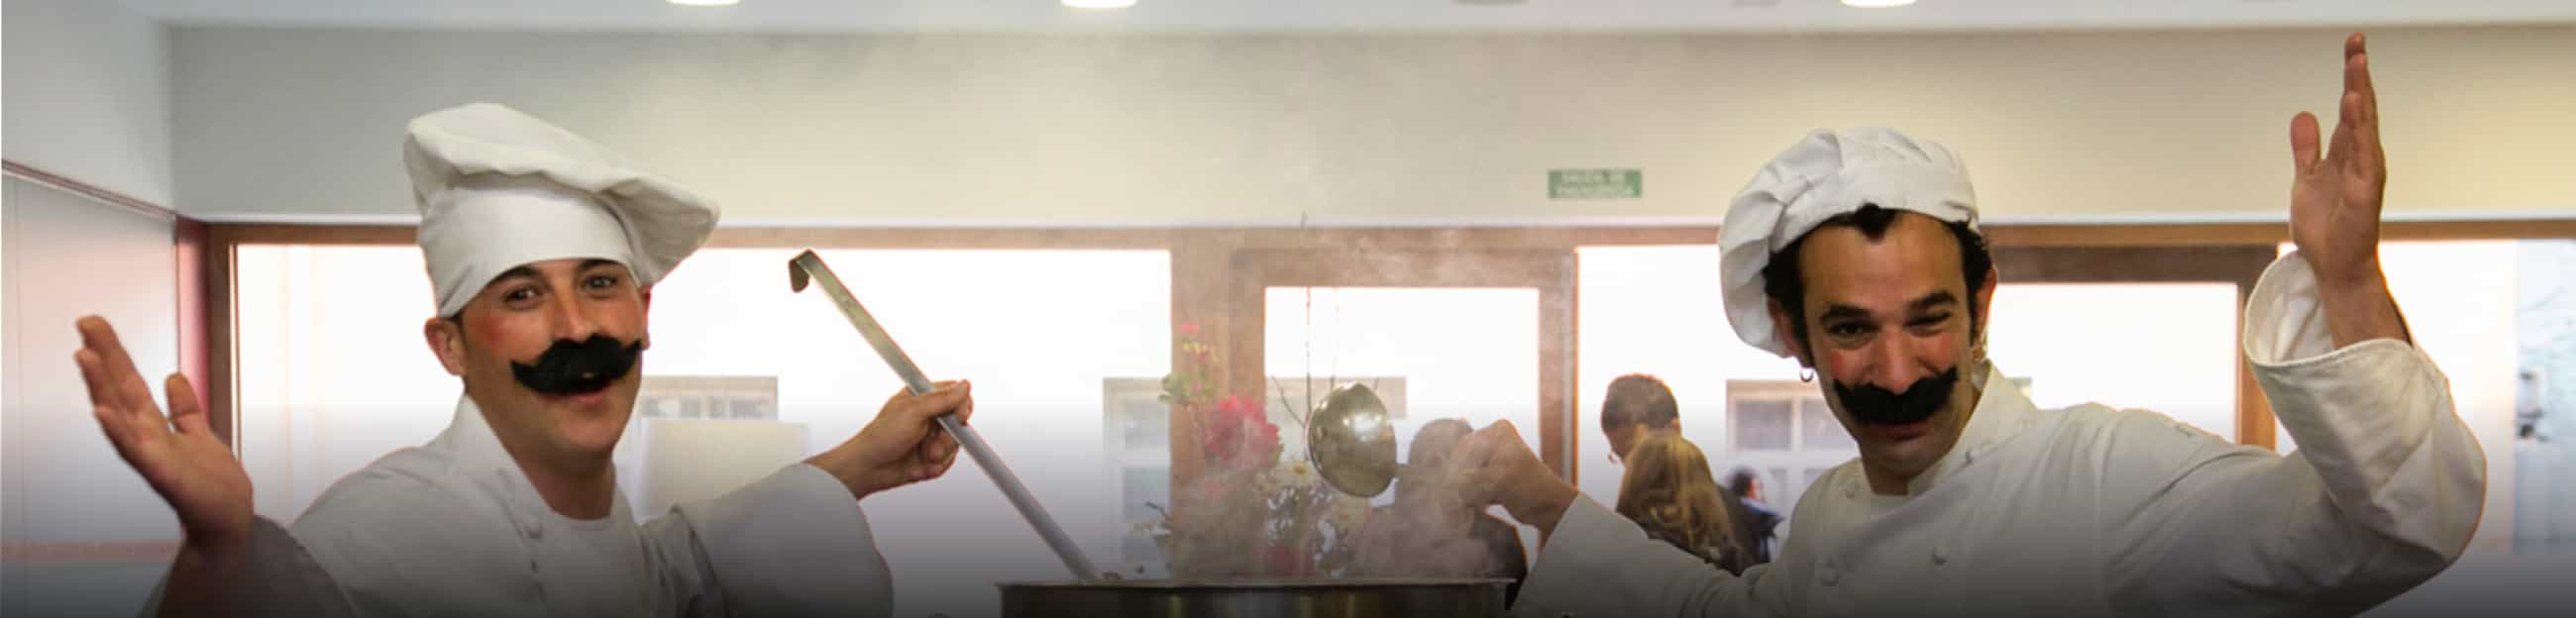
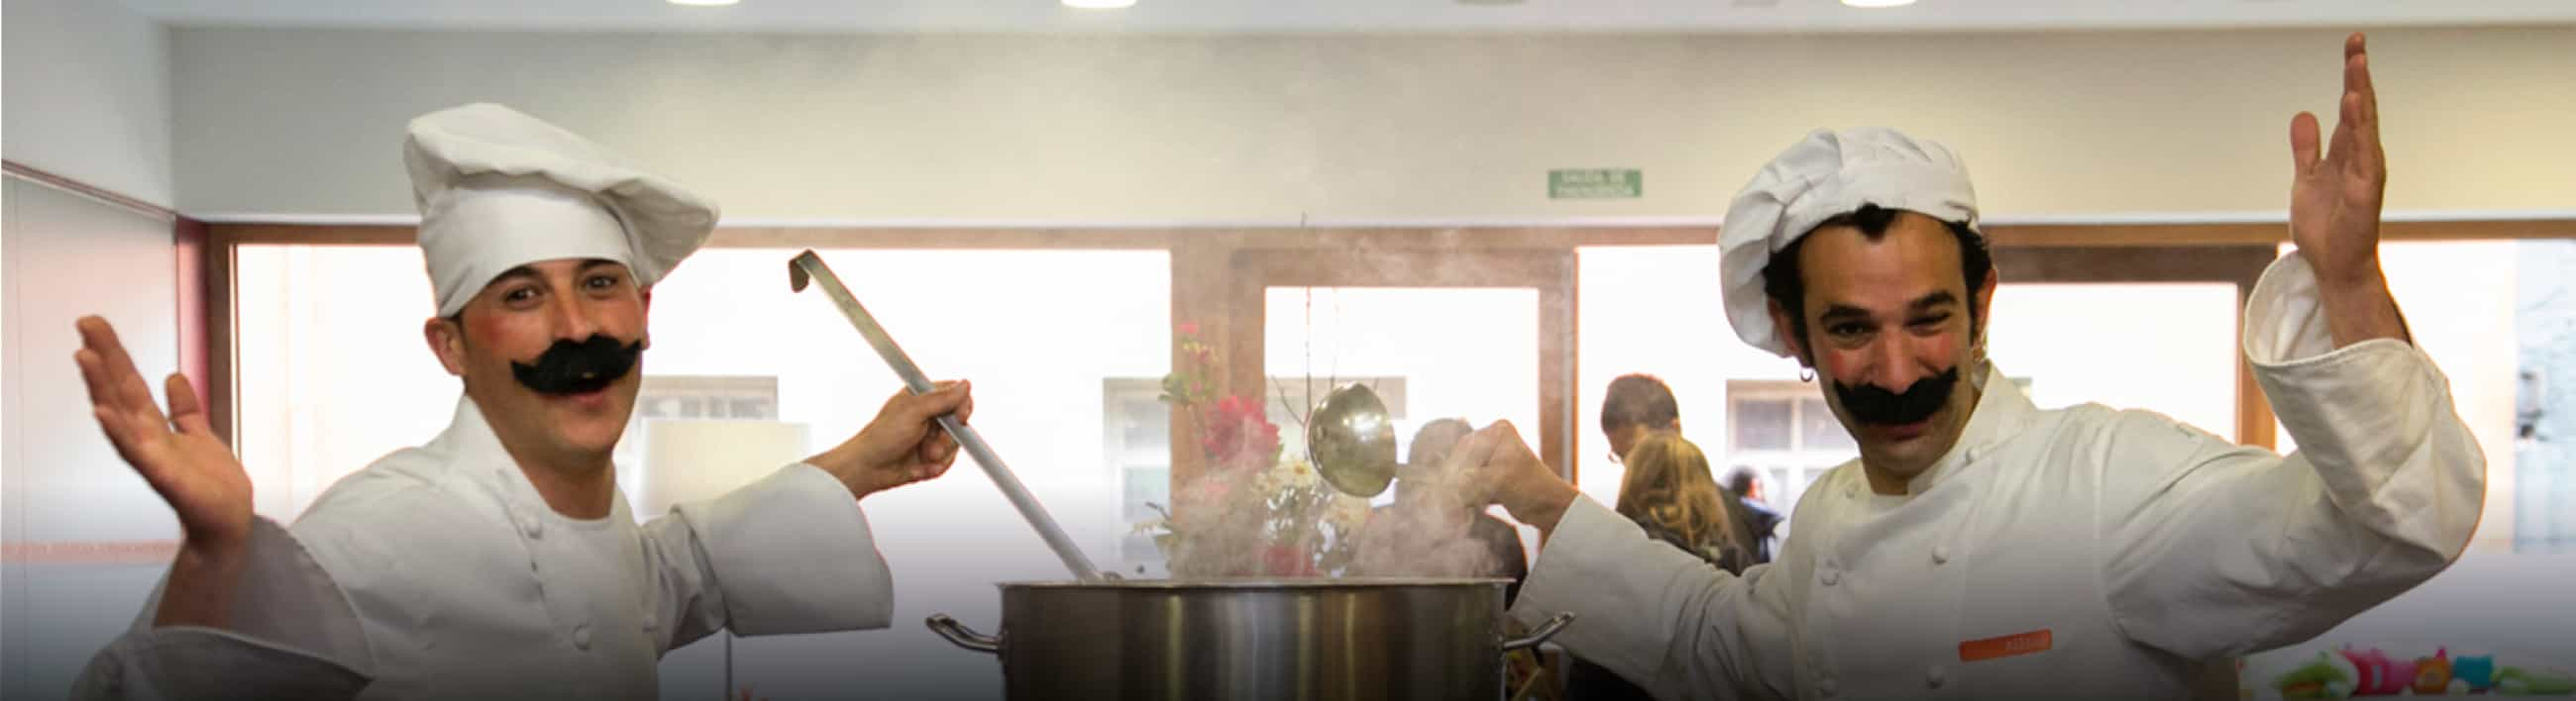
Update some img

diff --git a/src/components/Cover/cover.scss b/src/components/Cover/cover.scss
@@ -101,6 +101,10 @@
         &__content {
           padding: 15.4rem 0 4rem;
 
+          @media only screen and (min-width: 768px) {
+            padding: 18rem 0 15rem;
+          }
+
           @media only screen and (min-width: 1900px) {
             padding: 21rem 0 17rem;
           }
@@ -188,6 +192,11 @@
           background-image: url("~@/assets/images/img_cover_plisplas.jpg");
           background-position: 50% 0%;
         }
+
+        @media only screen and (min-width: 1900px) {
+          background-position: 50% 20%;
+        }
+
 
         &.cover {
           .row__title {
